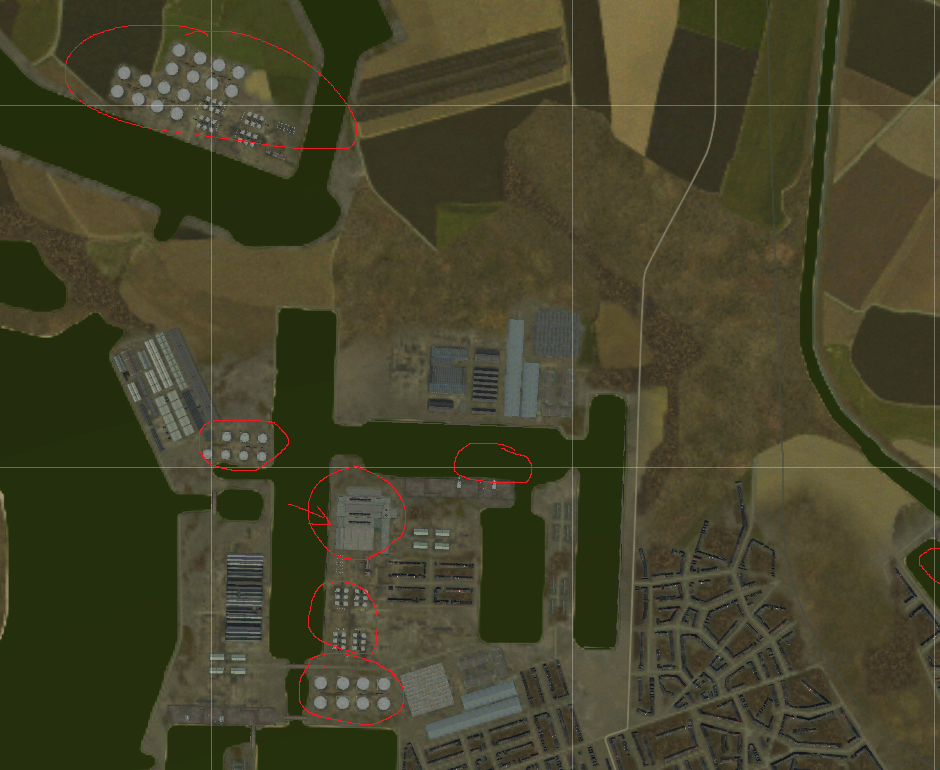
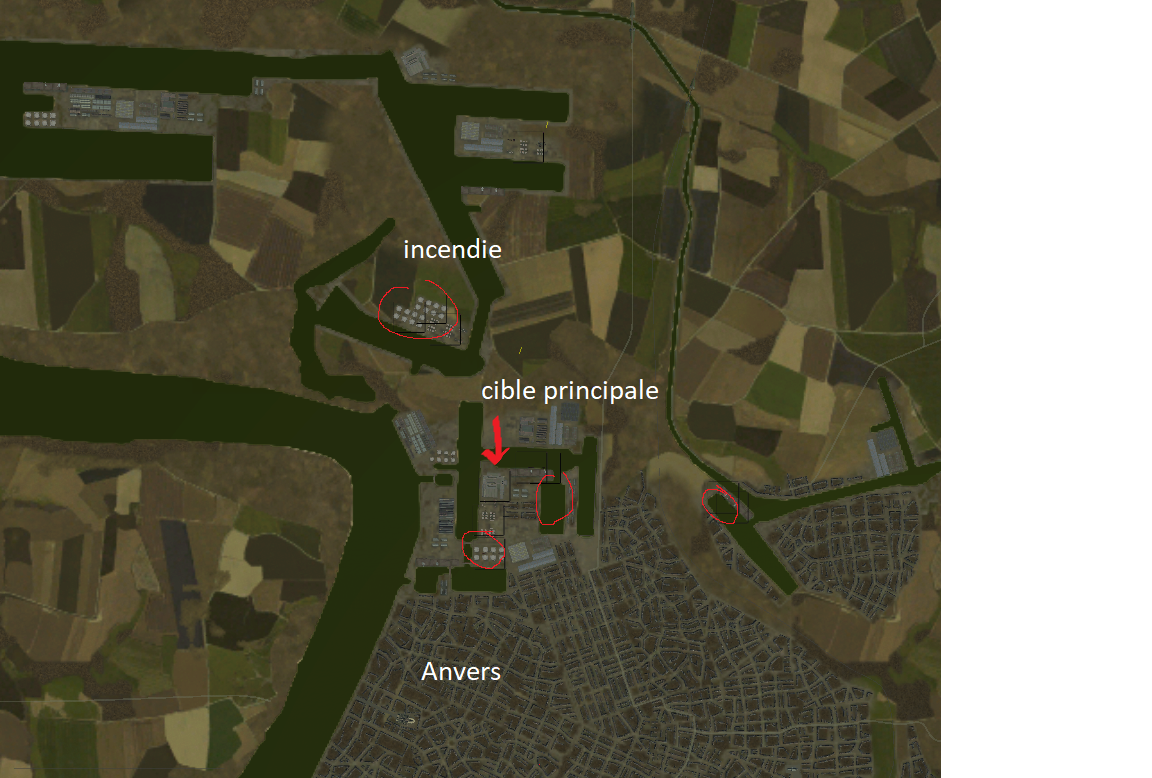
carte mise à jour

diff --git a/Anvers/readme.md b/Anvers/readme.md
@@ -1,0 +1,2 @@
+
+![carte](anvers01.png)
